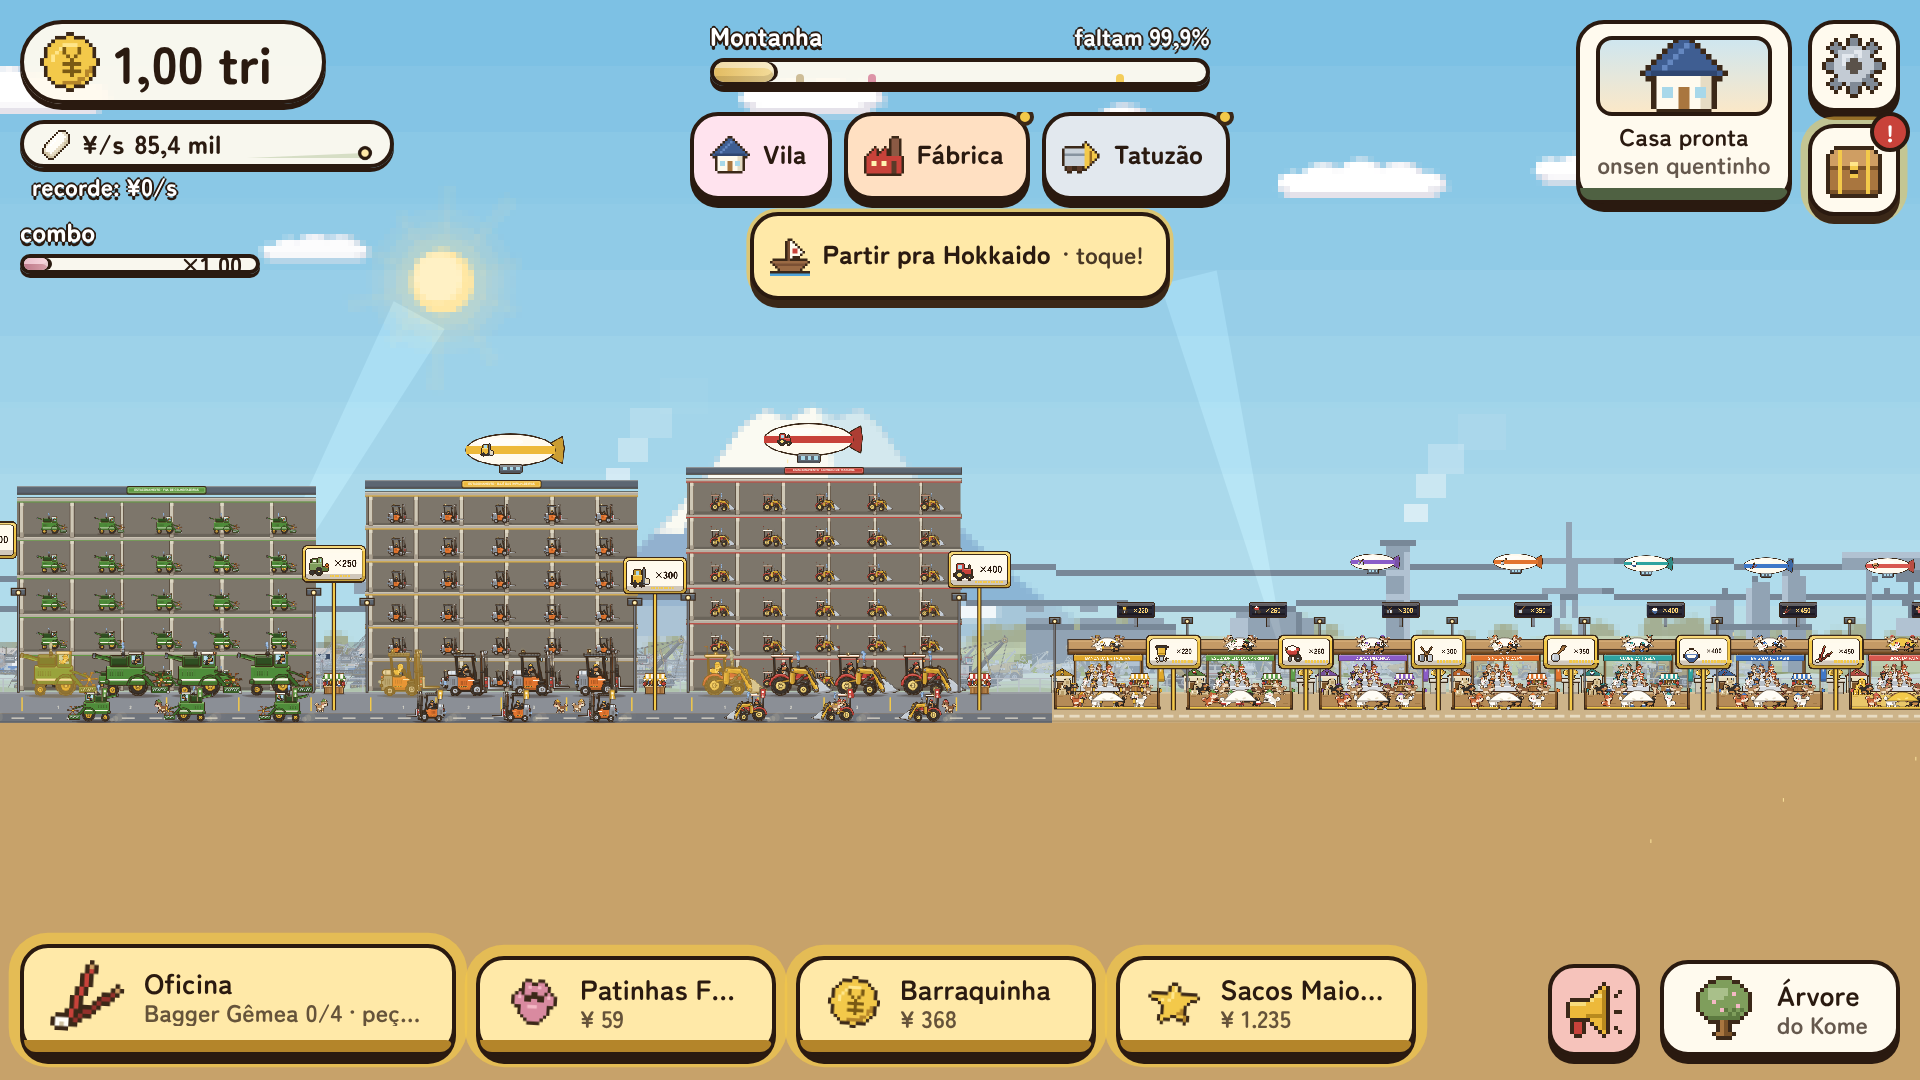
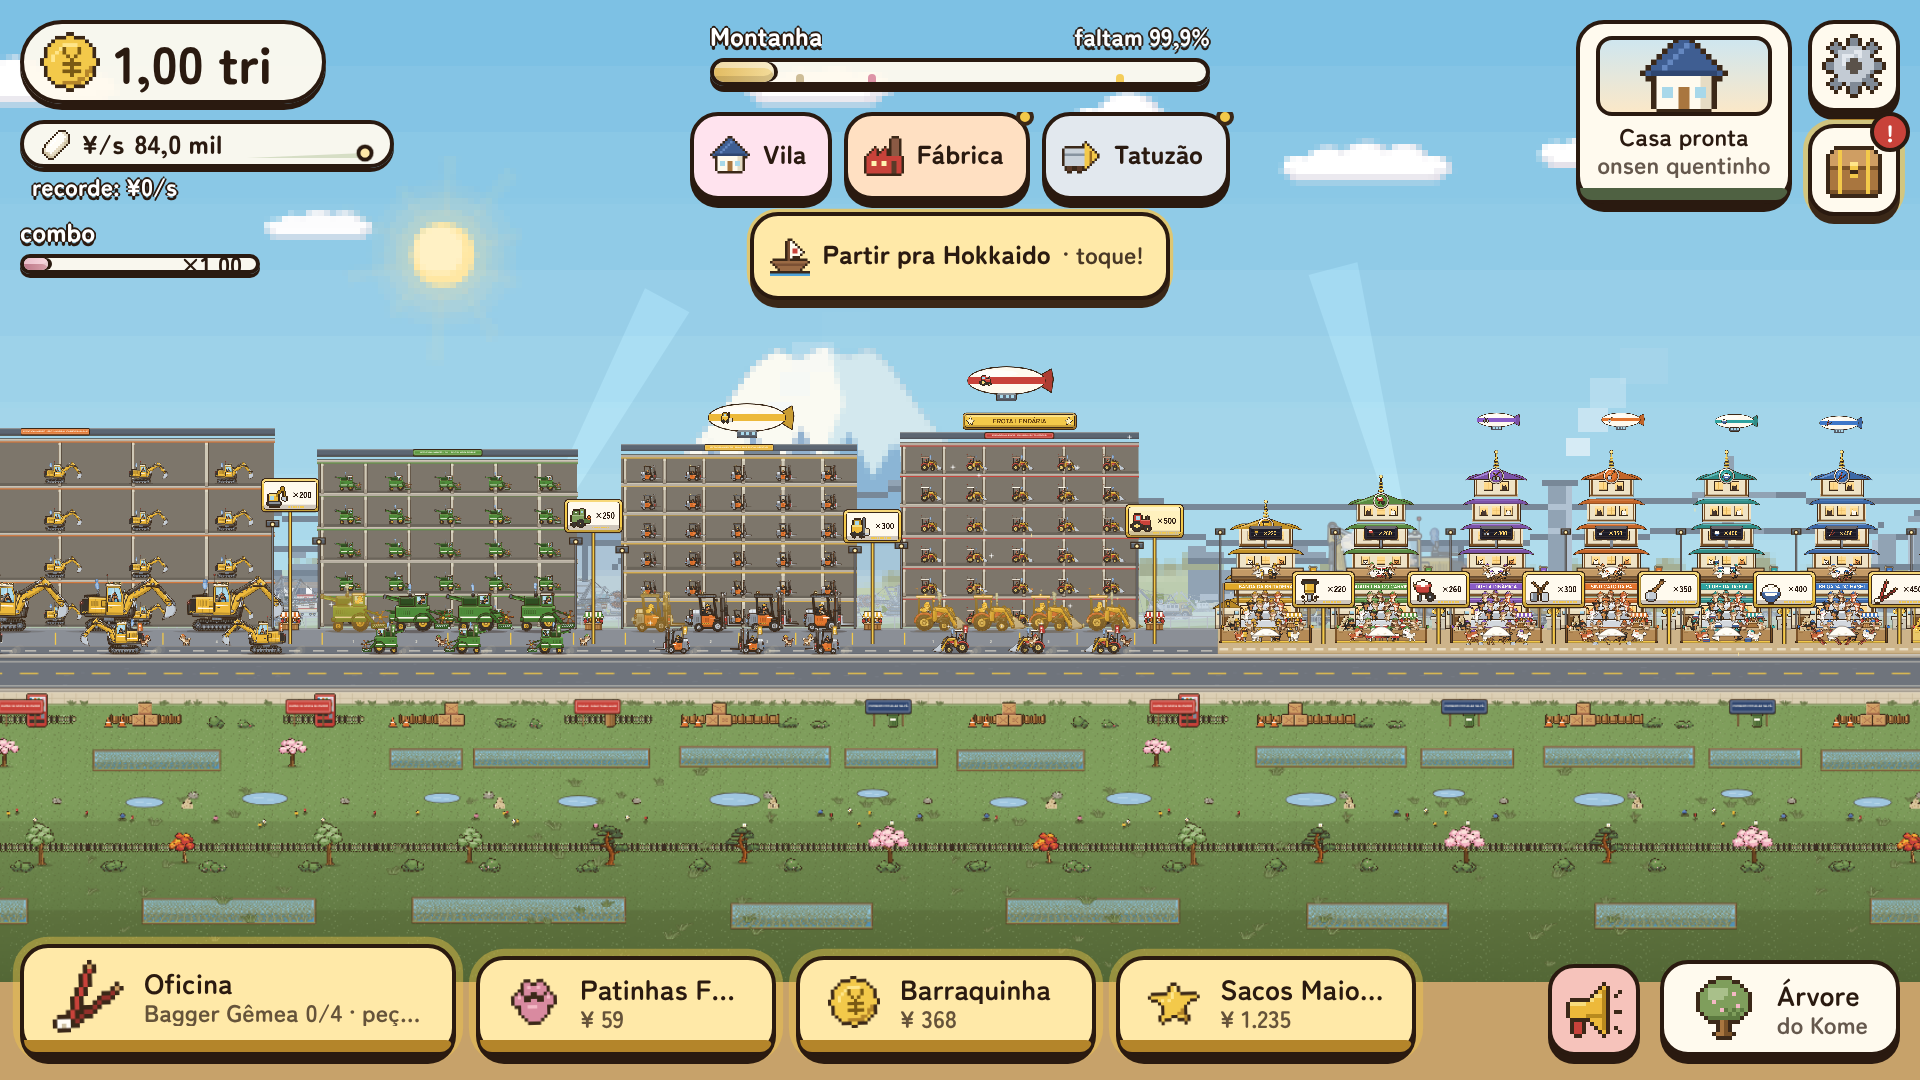
Pátio da Frota: ferramentas grandes, QG-pagode das turmas, ouro de verdade, faixa da frente, máquinas desviradas e skyline das absurdas
Claude-Session: https://claude.ai/code/session_01QMuA8b6SJ9Cv2sd7LT1RZF

diff --git a/kome/game/patio-arte.js b/kome/game/patio-arte.js
@@ -17,6 +17,10 @@
    Classes (camada-cookie.md): MÃO (pata…britadeira) = turma de até 8 shibas num canteiro com montinho de arroz;
    MÉDIA (trator…escavadeira) = até 4 nas vagas + comboio na rua do pátio; GIGANTE (caminhão, pá de cabo, Bagger) = silhuetas no
    horizonte (3 camadas, névoa, parallax). Patamares visuais em PA.TIERS (10, 25, 50, 100, 150…).
+   Polimento: ferramentas grandes na pata (silhueta lê de longe), QG-pagode por turma de mão (100+, 1 andar por patamar, à altura dos
+   estacionamentos), patamar de OURO (500+) = brilho + friso dourado + placa "LENDÁRIA", faixa da frente (rua, calçada, cercas, arrozal,
+   poças, placas; drawFront) até embaixo do HUD, máquinas desviradas em ilha espelhada (drawM), absurdas em skyline com lote por máquina.
+   stats.part = {giants, front, hand, mid} em ms.
    Desempenho: shiba de turma = quadro pronto (6 quadros por ferramenta/paleta), máquinas = imagem pronta (2 quadros), estruturas
    e placas = imagem pronta; corta pelo view; no máx. PA.FIG_CAP figuras animadas soltas, o resto vira imagem de grupo. */
 (function () {
@@ -650,7 +654,7 @@
         const x = B.bx1 + B.w * 0.5 - ((t * spd + j * sp) % span), y = 64, sc = 0.66 * mk;
         const o = machImg(id, Math.floor(t * 2 + j) % 2, k, variant); if (!o) break;
         Draw.shadow(g, x, y + 1, MW[id] * 0.4 * sc, 3, 0.16);
-        drawM(g, o.c, x, y + Math.sin(t * 11 + j) * 0.6, o.ax * sc, o.ay * sc, o.w * sc, o.h * sc, true); stats.mach++;
+        drawM(g, o.c, x, y + Math.sin(t * 11 + j) * 0.6, o.ax * sc, o.ay * sc, o.w * sc, o.h * sc, !Draw.mirrored(g)); stats.mach++;   // comboio: vira junto com o mundo (de frente pra onde anda)
         const dn = tier >= T25 ? 4 : 2;
         for (let d = 0; d < dn; d++) { const q = (t * 1.3 + d / dn + j * 0.3) % 1; g.globalAlpha = 0.3 * (1 - q); g.fillStyle = '#E6D8B8'; g.beginPath(); g.arc(x + MW[id] * 0.42 * sc + q * 30, y - 3 - q * 10, 4 + q * 9, 0, TAU); g.fill(); }
         g.globalAlpha = 1;
@@ -916,7 +920,7 @@
     // céu: dirigível (300+) e fogos (400+) — por turma
     for (const id of PA.HAND.concat(PA.MID)) {
       const n = st(id).n | 0, tr = tierOf(n); if (tr < T300) continue;
-      const gx = isHand[id] ? L.hand[id].px0 + HPW / 2 : (L.mid[id].bx0 + L.mid[id].bx1) / 2, gy = isHand[id] ? -4 - (Math.min(6, 2 + Math.floor((n - 100) / 50)) * PG_FH + 92) - 70 : -(Math.min(6, 2 + Math.floor((n - 100) / 50)) * Math.max(64, MH[id] * 0.62) + 26) - 110;
+      const gx = isHand[id] ? L.hand[id].px0 + HPW / 2 : (L.mid[id].bx0 + L.mid[id].bx1) / 2, gy = isHand[id] ? -4 - (Math.min(6, 2 + Math.floor((n - 100) / 50)) * PG_FH + 92) - 70 : -(Math.min(6, 2 + Math.floor((n - 100) / 50)) * Math.max(64, MH[id] * 0.62) + 26) - 110 - (tr >= T500 ? 70 : 0);
       if (gx + 200 < v.x0 || gx - 200 > v.x1) continue;
       const o = blimpImg(id), bs = isHand[id] ? 1 : 2; blitText(g, o, gx - 60 * bs + Math.sin(t * 0.3 + gx) * 30, gy + Math.sin(t * 0.8 + gx) * 5, bs);
       if (tr >= T400) for (let k = 0; k < 2; k++) {
